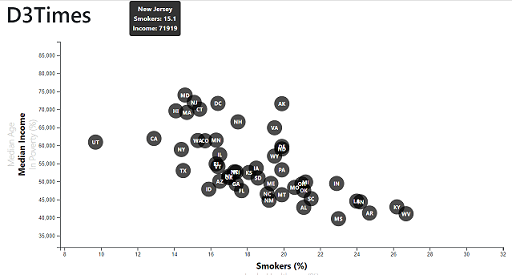
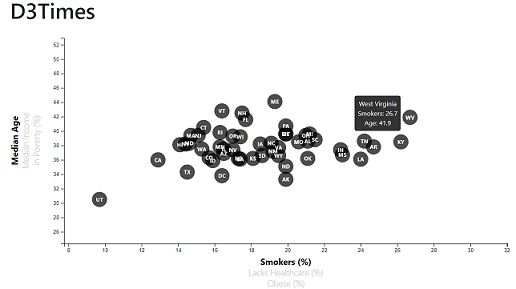
Fix mouseover positioning

diff --git a/assets/js/app.js b/assets/js/app.js
@@ -124,17 +124,17 @@
      }
      toolTip = d3.tip()
          .attr('class', 'd3-tip')
-         //.offset([40, -60])
+         .offset([40, -60])
          .html(function(d) {
-             return (`<strong>${d.state}<br>${xlabel} ${d[chosenXAxis]}<br>${ylabel} ${d[chosenYAxis]}<\strong>`);
+             return (`${d.state}<br>${xlabel} ${d[chosenXAxis]}<br>${ylabel} ${d[chosenYAxis]}`);
          });
      circlesGroup.call(toolTip);
 
-     circlesGroup.on('mouseover', function(data, index) {
-             toolTip.show(data);
+     circlesGroup.on('mouseover', function(data) {
+             toolTip.show(data, this)
          })
          // onmouseout event
-         .on('mouseout', function(data, index) {
+         .on('mouseout', function(data) {
              toolTip.hide(data);
          });
      return circlesGroup;

diff --git a/assets/css/d3Style.css b/assets/css/d3Style.css
@@ -43,7 +43,6 @@
 }
 
 .d3-tip {
-    left: 600px;
     padding: 6px;
     font-size: 12px;
     line-height: 1;
